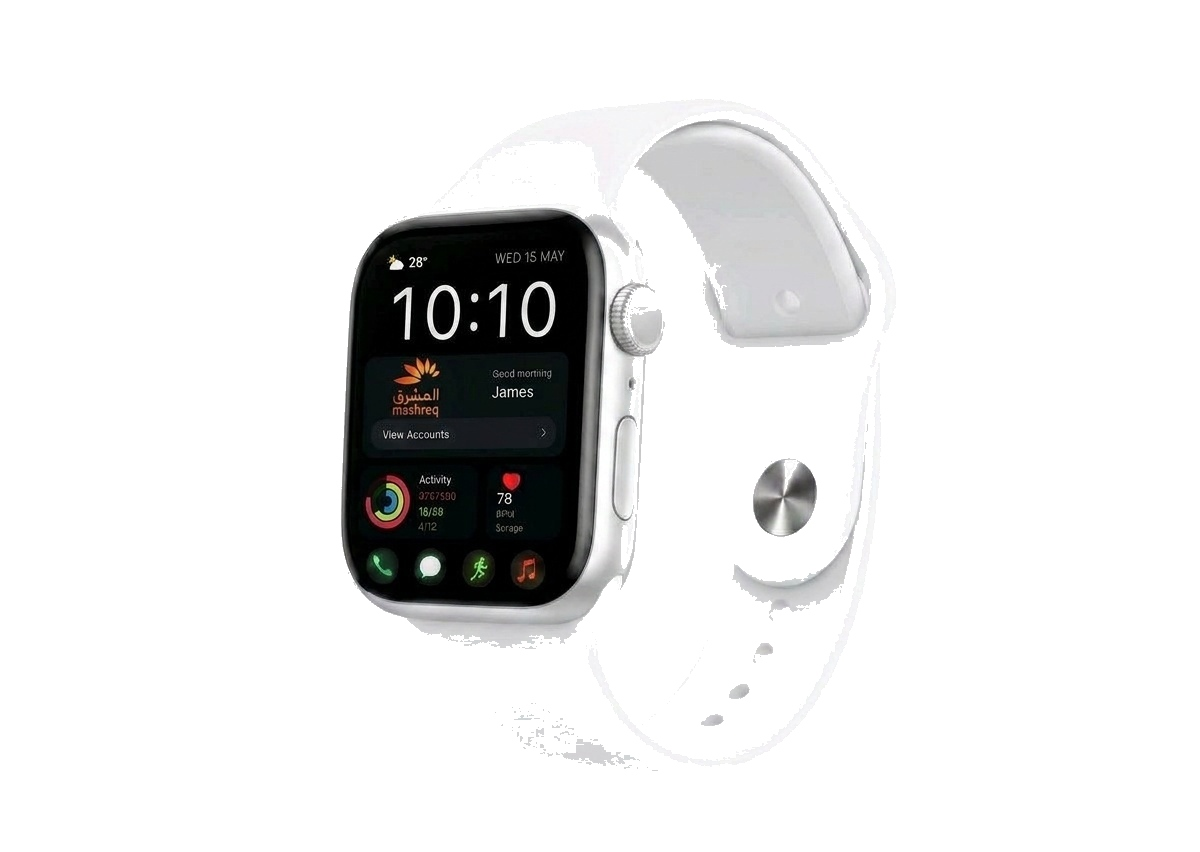
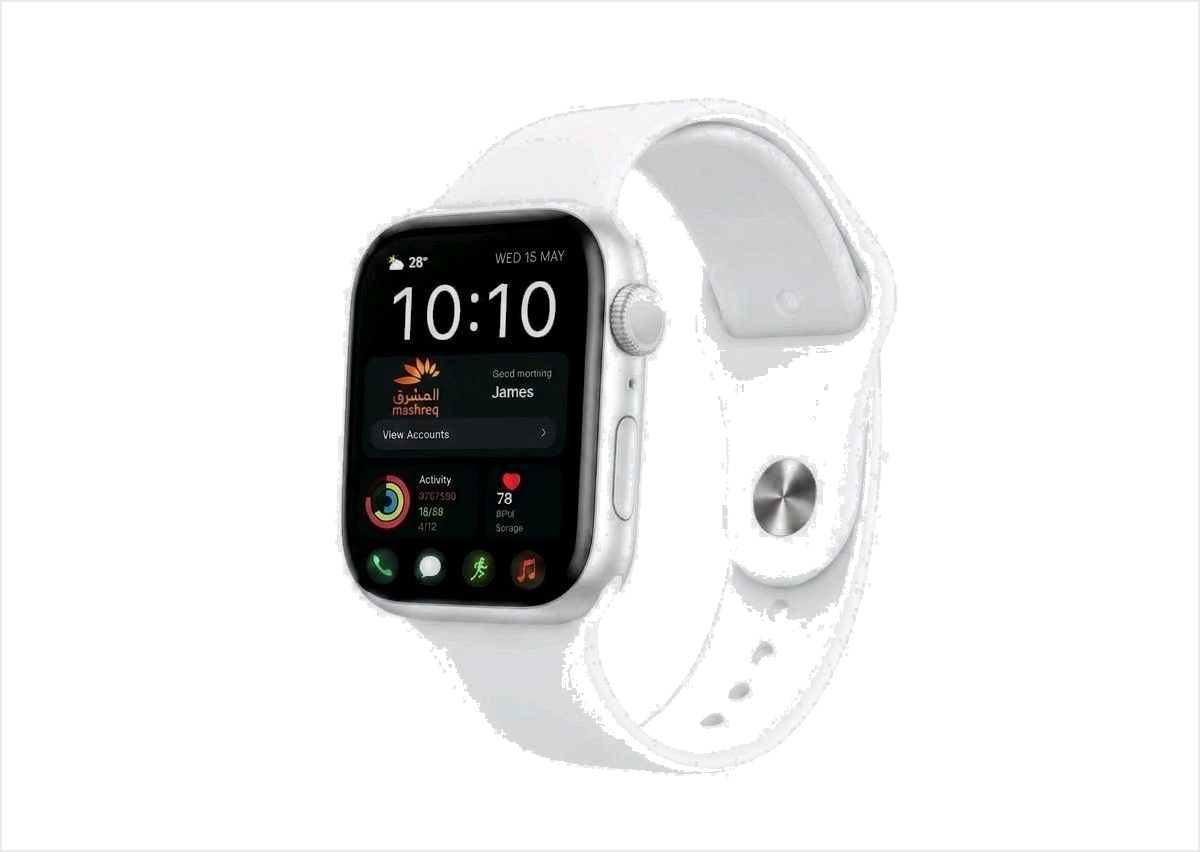
Improve selected watch images and order button

diff --git a/index.html b/index.html
@@ -237,25 +237,34 @@
             color: #ff7f00;
         }
         .order-btn {
-            background-color: #ff7f00;
-            color: white;
-            border: none;
-            padding: 8px;
-            border-radius: 6px;
+            background: linear-gradient(135deg, #ff8a1f 0%, #f06f00 100%);
+            color: #ffffff;
+            border: 1px solid rgba(255,255,255,0.28);
+            padding: 10px 22px;
+            border-radius: 12px;
             cursor: pointer;
             font-size: 13px;
-            font-weight: bold;
+            font-weight: 800;
+            letter-spacing: 0.1px;
             text-decoration: none;
-            display: block;
+            display: inline-flex;
+            align-items: center;
+            justify-content: center;
             width: fit-content;
-            min-width: 180px;
-            max-width: 220px;
-            margin: 0 auto;
-            padding: 7px 14px;
-            transition: background-color 0.2s;
+            min-width: 190px;
+            max-width: 230px;
+            margin: 2px auto 0 auto;
+            box-shadow: 0 6px 14px rgba(240,111,0,0.24);
+            transition: transform 0.2s ease, box-shadow 0.2s ease, background 0.2s ease;
         }
         .order-btn:hover {
-            background-color: #e06f00;
+            background: linear-gradient(135deg, #ff9a3d 0%, #e76700 100%);
+            transform: translateY(-2px);
+            box-shadow: 0 9px 18px rgba(240,111,0,0.32);
+        }
+        .order-btn:active {
+            transform: translateY(0);
+            box-shadow: 0 4px 9px rgba(240,111,0,0.22);
         }
 
         /* الفوتر (Footer) باللون البرتقالي */
@@ -357,7 +366,7 @@
                 <li><span class="feature-icon"><svg viewBox="0 0 24 24" aria-hidden="true"><path d="M7 2.5h7l3 3V21H7z"/><path d="M10 10h4v7h-4zM10 12h4M10 15h4"/></svg></span><span>تدعم تقنية eSIM المتطورة</span></li>
                 <li><span class="feature-icon"><svg viewBox="0 0 24 24" aria-hidden="true"><rect x="3" y="7" width="17" height="10" rx="2"/><path d="M20 10h2v4h-2M6 10h8v4H6z"/></svg></span><span>بطارية قوية تدوم لمدة 14 يومًا</span></li>
             </ul>
-            <a href="personal_info.html" class="order-btn">اطلب ساعتك الان</a>
+            <a href="personal_info.html" class="order-btn">اطلب ساعتك الآن</a>
         </div>
         <div class="watch-card">
             <img src="assets/clean-white/watch-02.jpg" alt="ساعة 2">
@@ -369,7 +378,7 @@
                 <li><span class="feature-icon"><svg viewBox="0 0 24 24" aria-hidden="true"><path d="M7 2.5h7l3 3V21H7z"/><path d="M10 10h4v7h-4zM10 12h4M10 15h4"/></svg></span><span>تدعم تقنية eSIM المتطورة</span></li>
                 <li><span class="feature-icon"><svg viewBox="0 0 24 24" aria-hidden="true"><rect x="3" y="7" width="17" height="10" rx="2"/><path d="M20 10h2v4h-2M6 10h8v4H6z"/></svg></span><span>بطارية قوية تدوم لمدة 14 يومًا</span></li>
             </ul>
-            <a href="personal_info.html" class="order-btn">اطلب ساعتك الان</a>
+            <a href="personal_info.html" class="order-btn">اطلب ساعتك الآن</a>
         </div>
         <div class="watch-card">
             <img src="assets/clean-white/watch-03.jpg" alt="ساعة 3">
@@ -381,7 +390,7 @@
                 <li><span class="feature-icon"><svg viewBox="0 0 24 24" aria-hidden="true"><path d="M7 2.5h7l3 3V21H7z"/><path d="M10 10h4v7h-4zM10 12h4M10 15h4"/></svg></span><span>تدعم تقنية eSIM المتطورة</span></li>
                 <li><span class="feature-icon"><svg viewBox="0 0 24 24" aria-hidden="true"><rect x="3" y="7" width="17" height="10" rx="2"/><path d="M20 10h2v4h-2M6 10h8v4H6z"/></svg></span><span>بطارية قوية تدوم لمدة 14 يومًا</span></li>
             </ul>
-            <a href="personal_info.html" class="order-btn">اطلب ساعتك الان</a>
+            <a href="personal_info.html" class="order-btn">اطلب ساعتك الآن</a>
         </div>
         <div class="watch-card">
             <img src="assets/clean-white/watch-04.jpg" alt="ساعة 4">
@@ -393,7 +402,7 @@
                 <li><span class="feature-icon"><svg viewBox="0 0 24 24" aria-hidden="true"><path d="M7 2.5h7l3 3V21H7z"/><path d="M10 10h4v7h-4zM10 12h4M10 15h4"/></svg></span><span>تدعم تقنية eSIM المتطورة</span></li>
                 <li><span class="feature-icon"><svg viewBox="0 0 24 24" aria-hidden="true"><rect x="3" y="7" width="17" height="10" rx="2"/><path d="M20 10h2v4h-2M6 10h8v4H6z"/></svg></span><span>بطارية قوية تدوم لمدة 14 يومًا</span></li>
             </ul>
-            <a href="personal_info.html" class="order-btn">اطلب ساعتك الان</a>
+            <a href="personal_info.html" class="order-btn">اطلب ساعتك الآن</a>
         </div>
         <div class="watch-card">
             <img src="assets/clean-white/watch-05.jpg" alt="ساعة 5">
@@ -405,7 +414,7 @@
                 <li><span class="feature-icon"><svg viewBox="0 0 24 24" aria-hidden="true"><path d="M7 2.5h7l3 3V21H7z"/><path d="M10 10h4v7h-4zM10 12h4M10 15h4"/></svg></span><span>تدعم تقنية eSIM المتطورة</span></li>
                 <li><span class="feature-icon"><svg viewBox="0 0 24 24" aria-hidden="true"><rect x="3" y="7" width="17" height="10" rx="2"/><path d="M20 10h2v4h-2M6 10h8v4H6z"/></svg></span><span>بطارية قوية تدوم لمدة 14 يومًا</span></li>
             </ul>
-            <a href="personal_info.html" class="order-btn">اطلب ساعتك الان</a>
+            <a href="personal_info.html" class="order-btn">اطلب ساعتك الآن</a>
         </div>
         <div class="watch-card">
             <img src="assets/clean-white/watch-06.jpg" alt="ساعة 6">
@@ -417,7 +426,7 @@
                 <li><span class="feature-icon"><svg viewBox="0 0 24 24" aria-hidden="true"><path d="M7 2.5h7l3 3V21H7z"/><path d="M10 10h4v7h-4zM10 12h4M10 15h4"/></svg></span><span>تدعم تقنية eSIM المتطورة</span></li>
                 <li><span class="feature-icon"><svg viewBox="0 0 24 24" aria-hidden="true"><rect x="3" y="7" width="17" height="10" rx="2"/><path d="M20 10h2v4h-2M6 10h8v4H6z"/></svg></span><span>بطارية قوية تدوم لمدة 14 يومًا</span></li>
             </ul>
-            <a href="personal_info.html" class="order-btn">اطلب ساعتك الان</a>
+            <a href="personal_info.html" class="order-btn">اطلب ساعتك الآن</a>
         </div>
         <div class="watch-card">
             <img src="assets/clean-white/watch-07.jpg" alt="ساعة 7">
@@ -429,7 +438,7 @@
                 <li><span class="feature-icon"><svg viewBox="0 0 24 24" aria-hidden="true"><path d="M7 2.5h7l3 3V21H7z"/><path d="M10 10h4v7h-4zM10 12h4M10 15h4"/></svg></span><span>تدعم تقنية eSIM المتطورة</span></li>
                 <li><span class="feature-icon"><svg viewBox="0 0 24 24" aria-hidden="true"><rect x="3" y="7" width="17" height="10" rx="2"/><path d="M20 10h2v4h-2M6 10h8v4H6z"/></svg></span><span>بطارية قوية تدوم لمدة 14 يومًا</span></li>
             </ul>
-            <a href="personal_info.html" class="order-btn">اطلب ساعتك الان</a>
+            <a href="personal_info.html" class="order-btn">اطلب ساعتك الآن</a>
         </div>
         <div class="watch-card">
             <img src="assets/clean-white/watch-08.jpg" alt="ساعة 8">
@@ -441,7 +450,7 @@
                 <li><span class="feature-icon"><svg viewBox="0 0 24 24" aria-hidden="true"><path d="M7 2.5h7l3 3V21H7z"/><path d="M10 10h4v7h-4zM10 12h4M10 15h4"/></svg></span><span>تدعم تقنية eSIM المتطورة</span></li>
                 <li><span class="feature-icon"><svg viewBox="0 0 24 24" aria-hidden="true"><rect x="3" y="7" width="17" height="10" rx="2"/><path d="M20 10h2v4h-2M6 10h8v4H6z"/></svg></span><span>بطارية قوية تدوم لمدة 14 يومًا</span></li>
             </ul>
-            <a href="personal_info.html" class="order-btn">اطلب ساعتك الان</a>
+            <a href="personal_info.html" class="order-btn">اطلب ساعتك الآن</a>
         </div>
         <div class="watch-card">
             <img src="assets/clean-white/watch-09.jpg" alt="ساعة 9">
@@ -453,7 +462,7 @@
                 <li><span class="feature-icon"><svg viewBox="0 0 24 24" aria-hidden="true"><path d="M7 2.5h7l3 3V21H7z"/><path d="M10 10h4v7h-4zM10 12h4M10 15h4"/></svg></span><span>تدعم تقنية eSIM المتطورة</span></li>
                 <li><span class="feature-icon"><svg viewBox="0 0 24 24" aria-hidden="true"><rect x="3" y="7" width="17" height="10" rx="2"/><path d="M20 10h2v4h-2M6 10h8v4H6z"/></svg></span><span>بطارية قوية تدوم لمدة 14 يومًا</span></li>
             </ul>
-            <a href="personal_info.html" class="order-btn">اطلب ساعتك الان</a>
+            <a href="personal_info.html" class="order-btn">اطلب ساعتك الآن</a>
         </div>
         <div class="watch-card">
             <img src="assets/clean-white/watch-10.jpg" alt="ساعة 10">
@@ -465,7 +474,7 @@
                 <li><span class="feature-icon"><svg viewBox="0 0 24 24" aria-hidden="true"><path d="M7 2.5h7l3 3V21H7z"/><path d="M10 10h4v7h-4zM10 12h4M10 15h4"/></svg></span><span>تدعم تقنية eSIM المتطورة</span></li>
                 <li><span class="feature-icon"><svg viewBox="0 0 24 24" aria-hidden="true"><rect x="3" y="7" width="17" height="10" rx="2"/><path d="M20 10h2v4h-2M6 10h8v4H6z"/></svg></span><span>بطارية قوية تدوم لمدة 14 يومًا</span></li>
             </ul>
-            <a href="personal_info.html" class="order-btn">اطلب ساعتك الان</a>
+            <a href="personal_info.html" class="order-btn">اطلب ساعتك الآن</a>
         </div>
         <div class="watch-card">
             <img src="assets/clean-white/watch-11.jpg" alt="ساعة 11">
@@ -477,7 +486,7 @@
                 <li><span class="feature-icon"><svg viewBox="0 0 24 24" aria-hidden="true"><path d="M7 2.5h7l3 3V21H7z"/><path d="M10 10h4v7h-4zM10 12h4M10 15h4"/></svg></span><span>تدعم تقنية eSIM المتطورة</span></li>
                 <li><span class="feature-icon"><svg viewBox="0 0 24 24" aria-hidden="true"><rect x="3" y="7" width="17" height="10" rx="2"/><path d="M20 10h2v4h-2M6 10h8v4H6z"/></svg></span><span>بطارية قوية تدوم لمدة 14 يومًا</span></li>
             </ul>
-            <a href="personal_info.html" class="order-btn">اطلب ساعتك الان</a>
+            <a href="personal_info.html" class="order-btn">اطلب ساعتك الآن</a>
         </div>
     </div>
     </div>

diff --git a/index_en.html b/index_en.html
@@ -237,25 +237,34 @@
             color: #ff7f00;
         }
         .order-btn {
-            background-color: #ff7f00;
-            color: white;
-            border: none;
-            padding: 8px;
-            border-radius: 6px;
+            background: linear-gradient(135deg, #ff8a1f 0%, #f06f00 100%);
+            color: #ffffff;
+            border: 1px solid rgba(255,255,255,0.28);
+            padding: 10px 22px;
+            border-radius: 12px;
             cursor: pointer;
             font-size: 13px;
-            font-weight: bold;
+            font-weight: 800;
+            letter-spacing: 0.1px;
             text-decoration: none;
-            display: block;
+            display: inline-flex;
+            align-items: center;
+            justify-content: center;
             width: fit-content;
-            min-width: 180px;
-            max-width: 220px;
-            margin: 0 auto;
-            padding: 7px 14px;
-            transition: background-color 0.2s;
+            min-width: 190px;
+            max-width: 230px;
+            margin: 2px auto 0 auto;
+            box-shadow: 0 6px 14px rgba(240,111,0,0.24);
+            transition: transform 0.2s ease, box-shadow 0.2s ease, background 0.2s ease;
         }
         .order-btn:hover {
-            background-color: #e06f00;
+            background: linear-gradient(135deg, #ff9a3d 0%, #e76700 100%);
+            transform: translateY(-2px);
+            box-shadow: 0 9px 18px rgba(240,111,0,0.32);
+        }
+        .order-btn:active {
+            transform: translateY(0);
+            box-shadow: 0 4px 9px rgba(240,111,0,0.22);
         }
 
         /* Footer */
